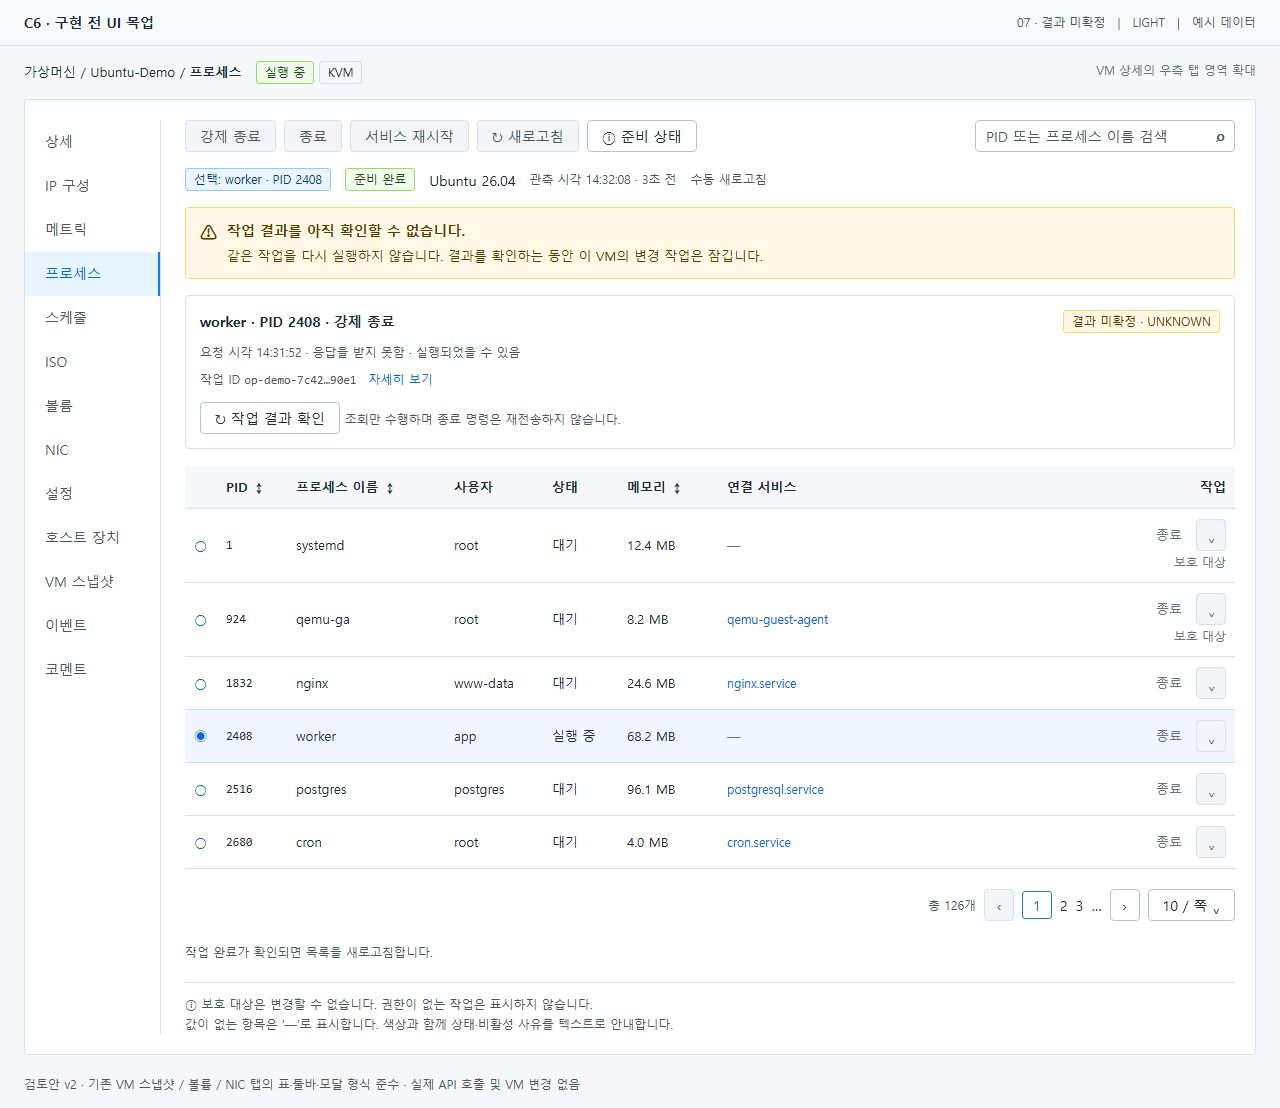
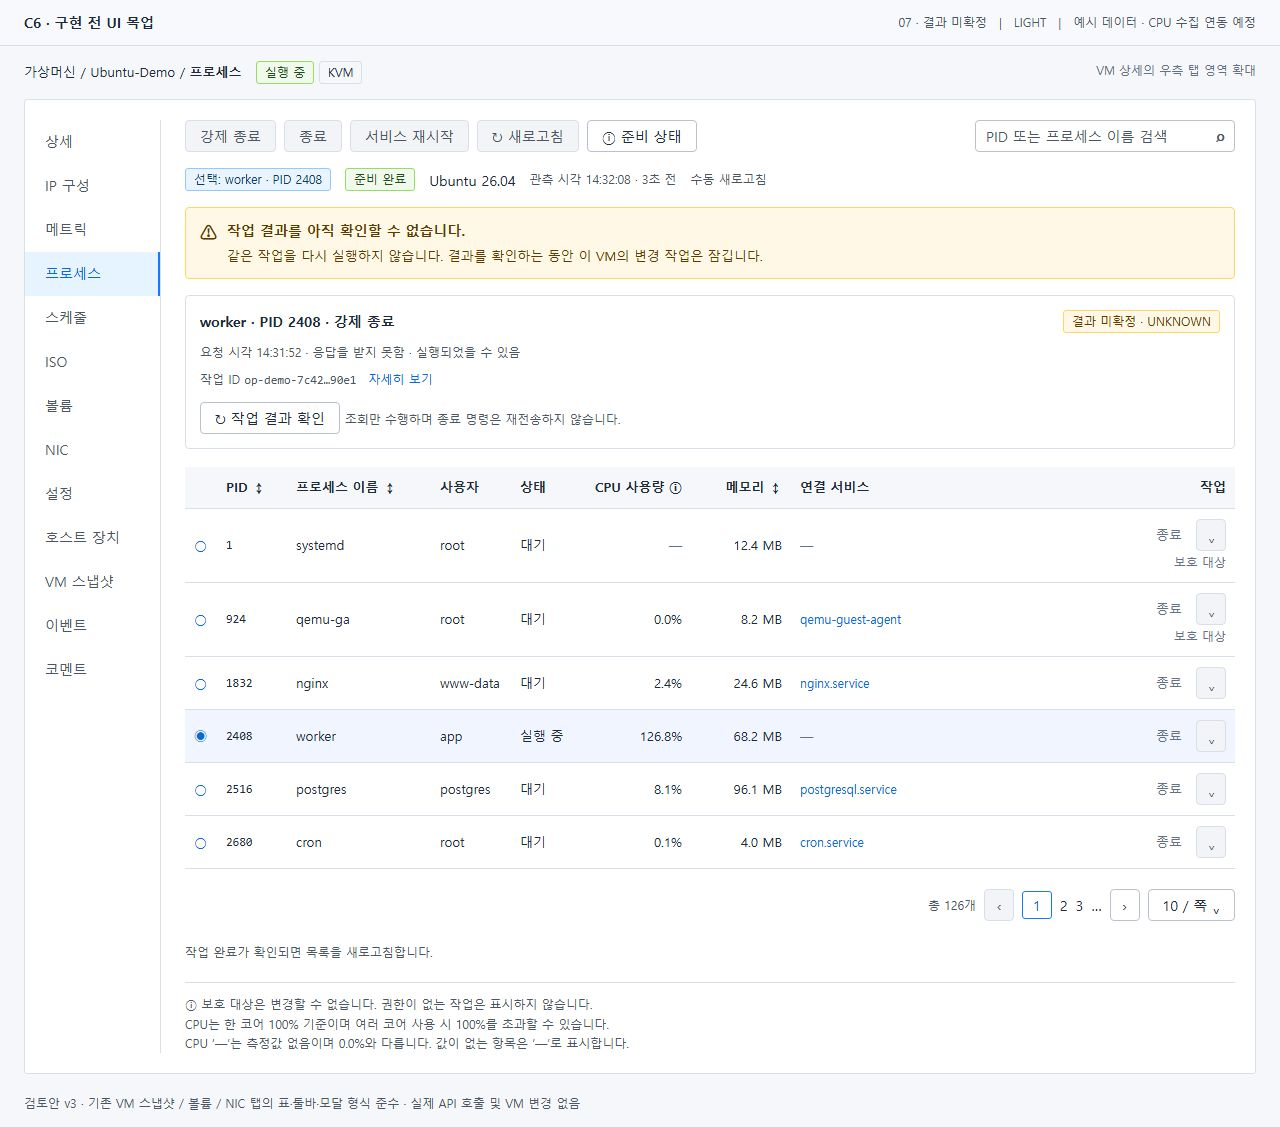
docs: 프로세스 목업에 CPU 사용량과 미측정 표시 추가

diff --git a/docs/design/vm-process-mockup/index.html b/docs/design/vm-process-mockup/index.html
@@ -29,7 +29,7 @@ const iswin=state==='windows';const expired=state==='stale',busy=state==='unknow
 const nav=['상세','IP 구성','메트릭','프로세스','스케줄','ISO','볼륨','NIC','설정','호스트 장치','VM 스냅샷','이벤트','코멘트'];
 function inventory(){
  const rows=iswin?[[4,'System','SYSTEM','실행 중','—','—','보호 대상'],[864,'svchost.exe','SYSTEM','실행 중','42.6 MB','W32Time','Windows 미지원'],[2812,'DemoWorker.exe','demo','실행 중','18.4 MB','—','Windows 미지원'],[3940,'DemoService.exe','SYSTEM','실행 중','26.8 MB','DemoService','Windows 미지원']]:[[1,'systemd','root','대기','12.4 MB','—','보호 대상'],[924,'qemu-ga','root','대기','8.2 MB','qemu-guest-agent','보호 대상'],[1832,'nginx','www-data','대기','24.6 MB','nginx.service',''],[2408,'worker','app','실행 중','68.2 MB','—',''],[2516,'postgres','postgres','대기','96.1 MB','postgresql.service',''],[2680,'cron','root','대기','4.0 MB','cron.service','']];
- return `<table><thead><tr><th style="width:32px" aria-label="선택"></th><th style="width:70px">PID ↕</th><th style="width:158px">프로세스 이름 ↕</th><th style="width:98px">사용자</th><th style="width:75px">상태</th><th style="width:100px">메모리 ↕</th><th style="width:182px">연결 서비스</th><th style="text-align:right">작업</th></tr></thead><tbody>`+rows.map((r,i)=>`<tr class="${i===selectedIndex?'selected':''}"><td style="color:var(--ui-link)">${i===selectedIndex?'◉':'○'}</td><td class="mono">${r[0]}</td><td class="name">${r[1]}</td><td>${r[2]}</td><td>${r[3]}</td><td>${r[4]}</td><td><span class="${r[5]==='—'?'muted':'service-chip'}">${r[5]}</span></td><td><div class="row-actions">${btn('종료','link',!!r[6]||expired||busy)}${btn('⌄','icon',r[6]==='보호 대상'||expired||busy)}${i===2&&['list','windows'].includes(state)?`<div class="menu"><div>프로세스 상세</div>${iswin?'<div class="disabled">서비스 재시작<small>연결된 서비스가 없는 프로세스입니다.</small></div>':'<div>서비스 재시작…</div>'}<div class="destructive">강제 종료…</div></div>`:''}</div>${r[6]?'<span class="sub" style="text-align:right">'+r[6]+'</span>':''}</td></tr>`).join('')+'</tbody></table>'+`<div class="paging"><span class="small secondary">총 ${iswin?46:126}개</span>${btn('‹','icon',true)}<span class="page">1</span><span>2</span><span>3</span><span>…</span>${btn('›','icon')}${btn('10 / 쪽 ⌄')}</div>`;
+ return `<table><thead><tr><th style="width:32px" aria-label="선택"></th><th style="width:70px">PID ↕</th><th style="width:144px">프로세스 이름 ↕</th><th style="width:80px">사용자</th><th style="width:75px">상태</th><th style="width:105px;text-align:right" title="한 코어 100% 기준. 여러 코어 사용 시 100%를 초과할 수 있습니다.">CPU 사용량 ⓘ</th><th style="width:100px;text-align:right">메모리 ↕</th><th style="width:160px">연결 서비스</th><th style="text-align:right">작업</th></tr></thead><tbody>`+rows.map((r,i)=>`<tr class="${i===selectedIndex?'selected':''}"><td style="color:var(--ui-link)">${i===selectedIndex?'◉':'○'}</td><td class="mono">${r[0]}</td><td class="name">${r[1]}</td><td>${r[2]}</td><td>${r[3]}</td><td style="text-align:right;font-variant-numeric:tabular-nums">${(iswin?[null,0,38.4,1.2]:[null,0,2.4,126.8,8.1,0.1])[i]===null?'<span class="muted">—</span>':(iswin?[null,0,38.4,1.2]:[null,0,2.4,126.8,8.1,0.1])[i].toFixed(1)+'%'}</td><td style="text-align:right">${r[4]}</td><td><span class="${r[5]==='—'?'muted':'service-chip'}">${r[5]}</span></td><td><div class="row-actions">${btn('종료','link',!!r[6]||expired||busy)}${btn('⌄','icon',r[6]==='보호 대상'||expired||busy)}${i===2&&['list','windows'].includes(state)?`<div class="menu"><div>프로세스 상세</div>${iswin?'<div class="disabled">서비스 재시작<small>연결된 서비스가 없는 프로세스입니다.</small></div>':'<div>서비스 재시작…</div>'}<div class="destructive">강제 종료…</div></div>`:''}</div>${r[6]?'<span class="sub" style="text-align:right">'+r[6]+'</span>':''}</td></tr>`).join('')+'</tbody></table>'+`<div class="paging"><span class="small secondary">총 ${iswin?46:126}개</span>${btn('‹','icon',true)}<span class="page">1</span><span>2</span><span>3</span><span>…</span>${btn('›','icon')}${btn('10 / 쪽 ⌄')}</div>`;
 }
 function content(){
  if(disabled)return '<h3 class="state-title">프로세스 관리</h3>'+btn('서비스 재시작','primary',true)+'<p class="small secondary">기능 활성화 및 대상 선택 후 사용할 수 있습니다.</p>'+alert('프로세스 관리 기능이 비활성화되어 있습니다.','관리자가 Global 설정에서 명시적으로 활성화한 후 사용할 수 있습니다.')+desc([['Global 설정','<span class="mono">vm.process.management.enabled</span>'],['현재 값','false · 기본값'],['사용 범위','활성화 후에도 VM 접근 권한과 작업별 권한을 확인합니다.']])+btn('Global 설정 열기')+'<span class="small secondary" style="margin-left:12px">관리자에게만 표시</span><div class="empty"><div style="font-size:30px">⊘</div><h3>활성화 전에는 프로세스를 조회하지 않습니다.</h3><p>VM 내부 조회와 변경 요청이 모두 차단됩니다.</p></div>';
@@ -39,7 +39,7 @@ function content(){
  if(busy)out+=alert('작업 결과를 아직 확인할 수 없습니다.','같은 작업을 다시 실행하지 않습니다. 결과를 확인하는 동안 이 VM의 변경 작업은 잠깁니다.','warning')+`<div class="operation"><div class="operation-head"><strong>worker · PID 2408 · 강제 종료</strong><span class="tag warn">결과 미확정 · UNKNOWN</span></div><div class="small secondary">요청 시각 14:31:52 · 응답을 받지 못함 · 실행되었을 수 있음</div><div class="small secondary" style="margin:8px 0 12px">작업 ID <span class="mono">op-demo-7c42…90e1</span>　<a href="#">자세히 보기</a></div>${btn('↻ 작업 결과 확인')} <span class="small secondary">조회만 수행하며 종료 명령은 재전송하지 않습니다.</span></div>`;
  if(iswin)out+=alert('Windows에서는 정상 종료를 지원하지 않습니다.','강제 종료와 연결된 서비스 재시작을 사용할 수 있습니다. 일반 프로세스 자체의 재시작은 지원하지 않습니다.');
  out+=inventory();
- out+=`<p class="footnote">${busy?'작업 완료가 확인되면 목록을 새로고침합니다.':'일반 프로세스는 재시작할 수 없습니다. 연결된 서비스만 재시작할 수 있습니다.'}</p><div class="legend">ⓘ 보호 대상은 변경할 수 없습니다. 권한이 없는 작업은 표시하지 않습니다.<br>값이 없는 항목은 ‘—’로 표시합니다. 색상과 함께 상태·비활성 사유를 텍스트로 안내합니다.</div>`;
+ out+=`<p class="footnote">${busy?'작업 완료가 확인되면 목록을 새로고침합니다.':'일반 프로세스는 재시작할 수 없습니다. 연결된 서비스만 재시작할 수 있습니다.'}</p><div class="legend">ⓘ 보호 대상은 변경할 수 없습니다. 권한이 없는 작업은 표시하지 않습니다.<br>CPU는 한 코어 100% 기준이며 여러 코어 사용 시 100%를 초과할 수 있습니다.<br>CPU ‘—’는 측정값 없음이며 0.0%와 다릅니다. 값이 없는 항목은 ‘—’로 표시합니다.</div>`;
  return out;
 }
 function modal(){if(!['terminate','kill','restart'].includes(state))return '';
@@ -49,5 +49,5 @@ function modal(){if(!['terminate','kill','restart'].includes(state))return '';
  const warning=kill?['저장하지 않은 작업이 손실될 수 있습니다.','프로세스에 정리 시간을 주지 않고 종료합니다.']:restart?['서비스 이용이 일시적으로 중단됩니다.','연결된 서비스만 재시작합니다. 의존 서비스와 활성 연결에도 영향이 있을 수 있습니다.']:['프로세스에 정상 종료를 요청합니다.','종료가 확인되지 않아도 자동으로 강제 종료하지 않습니다.'];
  return `<div class="shade"><section class="modal" role="dialog" aria-label="${title}"><h2>${title}<span>×</span></h2><div class="body">${desc(rows)}${alert(...warning,kill?'error':'warning')}<div class="small secondary" style="margin-bottom:14px">관측 시각 14:32:08 · 3초 전<br>실행 전에 대상 신원과 목록 유효 시간을 다시 확인합니다.</div>${kill?'<div class="check"><span>☐</span><span>데이터 손실 가능성을 확인했으며 강제 종료에 동의합니다.</span></div>':''}</div><div class="footer">${btn('취소')}${btn(kill?'강제 종료':restart?'서비스 재시작':'종료',kill?'danger':'primary',kill)}</div></section></div>`;
 }
-document.querySelector('#app').innerHTML=`<div class="topnote"><strong>C6 · 구현 전 UI 목업</strong><span>${labels[state]}　|　${dark?'DARK':'LIGHT'}　|　예시 데이터</span></div><div class="breadcrumb"><span>가상머신 / ${vm} / <b>프로세스</b> <span class="tag ok" style="margin-left:10px">실행 중</span> <span class="tag">KVM</span></span><span class="muted small">VM 상세의 우측 탭 영역 확대</span></div><section class="sheet"><nav class="tabs">${nav.map(n=>'<div class="'+(n==='프로세스'?'active':'')+'">'+n+'</div>').join('')}</nav><main class="content">${content()}</main></section><div class="footer-note">검토안 v2 · 기존 VM 스냅샷 / 볼륨 / NIC 탭의 표·툴바·모달 형식 준수 · 실제 API 호출 및 VM 변경 없음</div>${modal()}<div class="preview-controls"><b>검토 화면</b><br>${Object.entries(labels).map(([k,v])=>'<a href="?state='+k+'&theme='+(dark?'dark':'light')+'">'+v+'</a>').join('')}<br><a href="?state=${state}&theme=${dark?'light':'dark'}">${dark?'라이트':'다크'} 모드로 보기</a></div>`;
+document.querySelector('#app').innerHTML=`<div class="topnote"><strong>C6 · 구현 전 UI 목업</strong><span>${labels[state]}　|　${dark?'DARK':'LIGHT'}　|　예시 데이터 · CPU 수집 연동 예정</span></div><div class="breadcrumb"><span>가상머신 / ${vm} / <b>프로세스</b> <span class="tag ok" style="margin-left:10px">실행 중</span> <span class="tag">KVM</span></span><span class="muted small">VM 상세의 우측 탭 영역 확대</span></div><section class="sheet"><nav class="tabs">${nav.map(n=>'<div class="'+(n==='프로세스'?'active':'')+'">'+n+'</div>').join('')}</nav><main class="content">${content()}</main></section><div class="footer-note">검토안 v3 · 기존 VM 스냅샷 / 볼륨 / NIC 탭의 표·툴바·모달 형식 준수 · 실제 API 호출 및 VM 변경 없음</div>${modal()}<div class="preview-controls"><b>검토 화면</b><br>${Object.entries(labels).map(([k,v])=>'<a href="?state='+k+'&theme='+(dark?'dark':'light')+'">'+v+'</a>').join('')}<br><a href="?state=${state}&theme=${dark?'light':'dark'}">${dark?'라이트':'다크'} 모드로 보기</a></div>`;
 </script></body></html>

diff --git a/docs/design/vm-process-mockup/README.ko.md b/docs/design/vm-process-mockup/README.ko.md
@@ -17,7 +17,7 @@ specific language governing permissions and limitations
 under the License.
  -->
 
-# C6 프로세스 탭 — 구현 전 UI 목업 v2
+# C6 프로세스 탭 — 구현 전 UI 목업 v3
 
 검토 이슈: https://github.com/ablecloud-team/ablestack-cloud/issues/1176
 
@@ -159,3 +159,13 @@ under the License.
 ## v2 변경
 
 사용자 검토 반영: 선두 파란 버튼을 핵심 변경 액션으로 전환하고 프로세스 탭을 네 번째로 이동했습니다. 준비 미완료/Global 비활성/UNKNOWN/만료 상태에서는 핵심 액션을 차단하며 보조 확인 기능을 파란 주 버튼으로 승격하지 않습니다.
+
+## v3 — CPU 사용량 검토 반영
+
+메모리 앞에 CPU 사용량 열을 추가했습니다. 소수점 한 자리 %와 오른쪽 정렬을 사용하고 null은 ‘—’, 실제 0은 ‘0.0%’로 구분합니다. 한 코어 100% 기준이므로 여러 코어 사용 시 100%를 초과할 수 있습니다. CPU 열에는 현재 미지원인 정렬 아이콘을 표시하지 않았습니다.
+
+**이미지 CPU 수치는 표시 형식 검토용 예시이며 현재 실행 결과가 아닙니다.** 현재 qemu Linux `lib/process/process_list_linux.py`는 `cpuPercent: None`, Windows `lib/process/ProcessList.ps1`은 `cpuPercent=$null`을 반환합니다. 계약 schema에는 nullable number 필드가 있지만 실제 샘플링은 미구현입니다. Cloud `VmProcessSnapshotServiceImpl.page`의 정렬 허용 값도 pid/name/memoryBytes뿐입니다.
+
+C1 계약 기준: 두 sample 사이 프로세스 CPU time / wall interval ×100, Linux/Windows 동일 의미. 최초 sample, 재부팅, 카운터 감소, 관측 누락은 null입니다. 실제 CPU 수치를 제공하려면 qemu 샘플링과 CPU 정렬의 Cloud 연동/테스트가 선행되어야 합니다. 수집 연동 전 실제 UI는 CPU를 ‘—’로 표시해야 하며 null을 0으로 바꾸면 안 됩니다.
+
+이번 변경은 목업/검토 문서뿐이며 CPU 수집 코드나 API는 수정하지 않았습니다.
